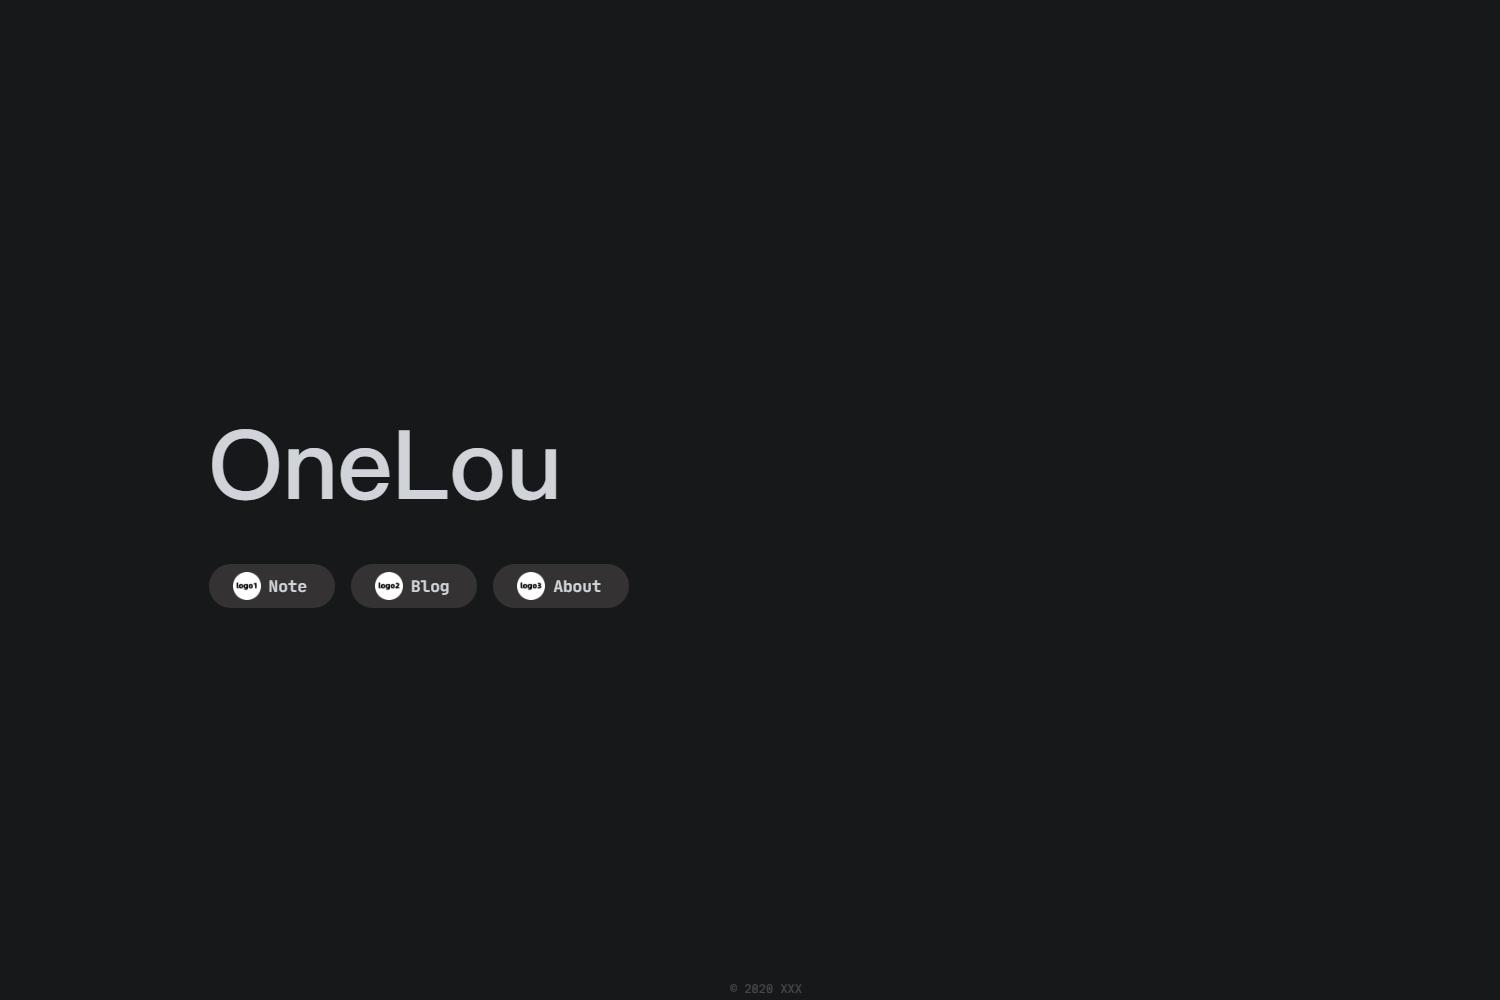
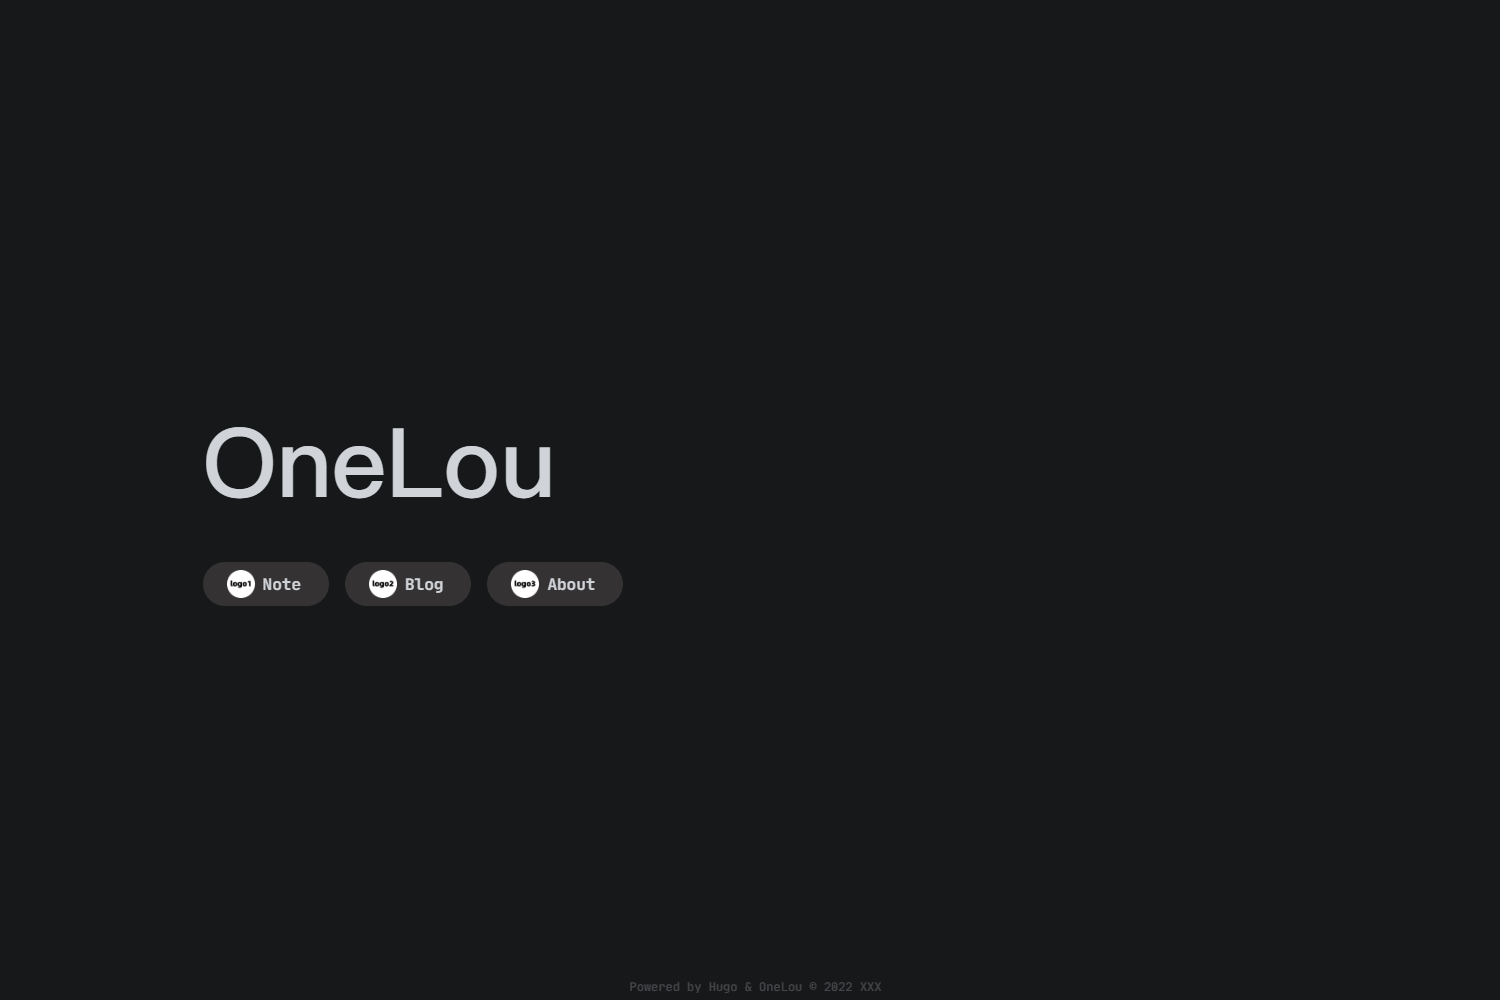
update

Changed region(s): [[0.1227, 0.558, 0.4293, 0.62], [0.1227, 0.434, 0.3987, 0.496]]

diff --git a/layouts/partials/footer/site-footer.html b/layouts/partials/footer/site-footer.html
@@ -2,6 +2,12 @@
 {{ if .IsHome }}
 <footer class="copyright">
     <div>
+        {{ if not .Site.Params.footer.hidePowered }}
+        <label>Powered by <a href="https://gohugo.io/">Hugo</a> & <a href="https://github.com/jyygithub/hugo-theme-onelou">OneLou</a></label>
+        {{ end }}
+        <label>© {{ .Site.Params.footer.since }} {{ .Site.Params.footer.copyright }}</label>
+    </div>
+    <div>
         {{ if .Site.Params.footer.gongan }}
         <img alt="beian" src="img/beian.png"/>
         <a href="http://www.beian.gov.cn/portal/registerSystemInfo?recordcode={{ .Site.Params.footer.gongan.code }}">
@@ -10,7 +16,6 @@
         {{ if .Site.Params.footer.beian }}
         <a href="https://beian.miit.gov.cn/">{{ .Site.Params.footer.beian }}</a>
         {{ end }}
-        <label>© {{ .Site.Params.footer.since }} {{ .Site.Params.footer.copyright }}</label>
     </div>
 </footer>
 {{ end }}

diff --git a/README.md b/README.md
@@ -6,8 +6,24 @@
 
 ## Install
 
+- Create a hugo site.
+
+```shell
+hugo new site myblog
+```
+
+- Clone theme
+
 ```shell
 cd themes
 
 git clone https://github.com/jyygithub/hugo-theme-onelou.git
+```
+
+- Use `myblog/themes/config.yaml` instead of `myblog/config.toml`
+
+- Run, start https://localhost:1313/
+
+```shell
+hugo server -D
 ```
